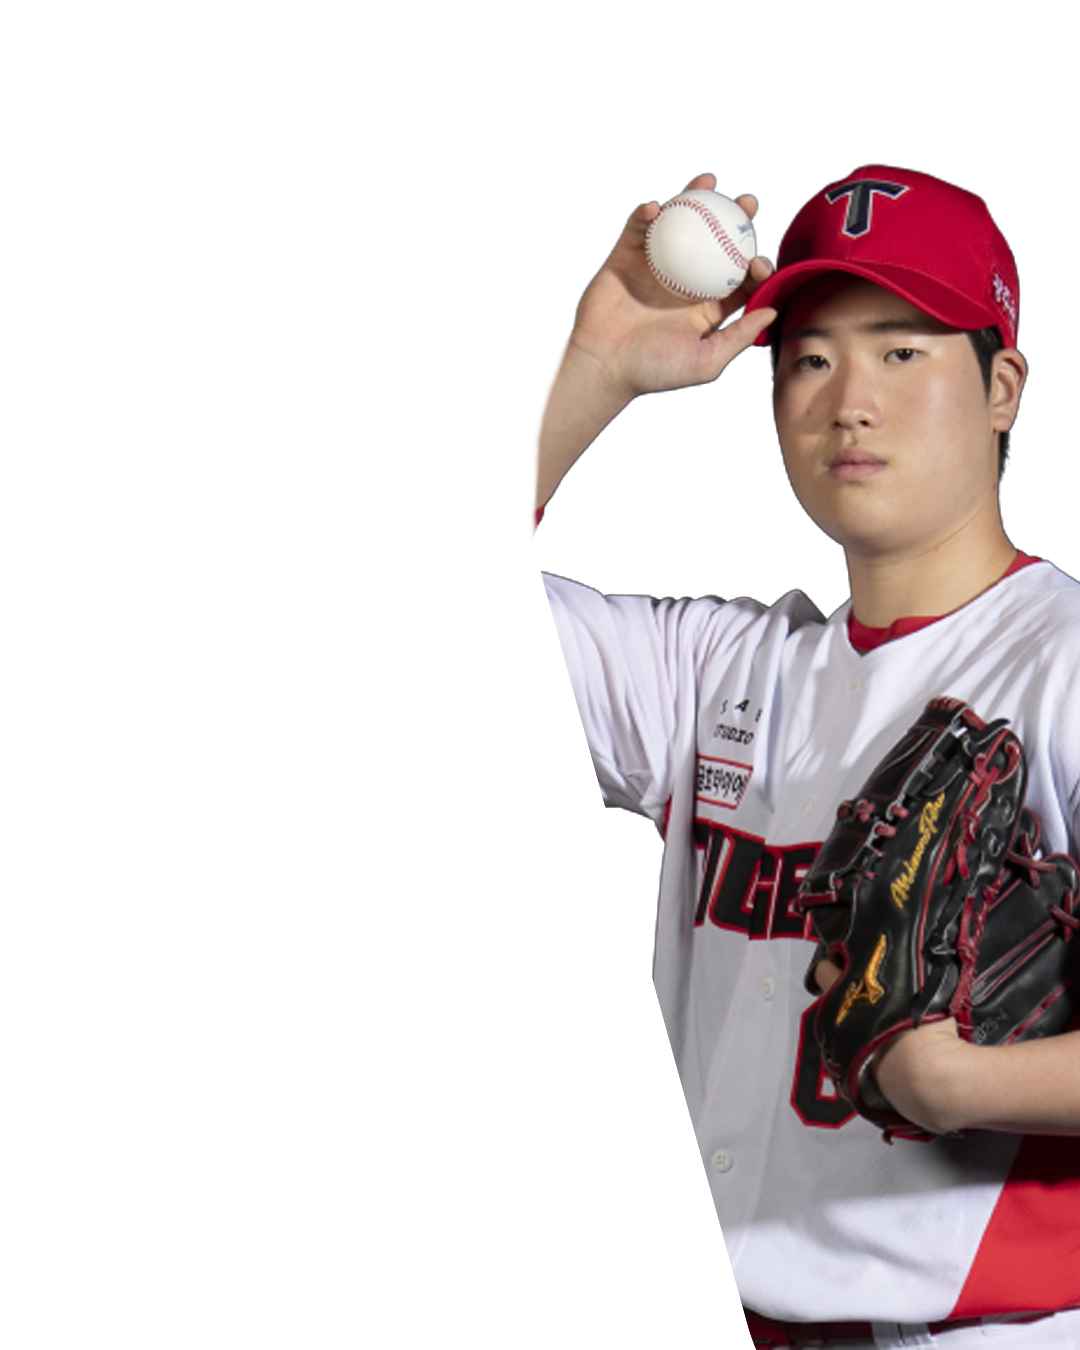
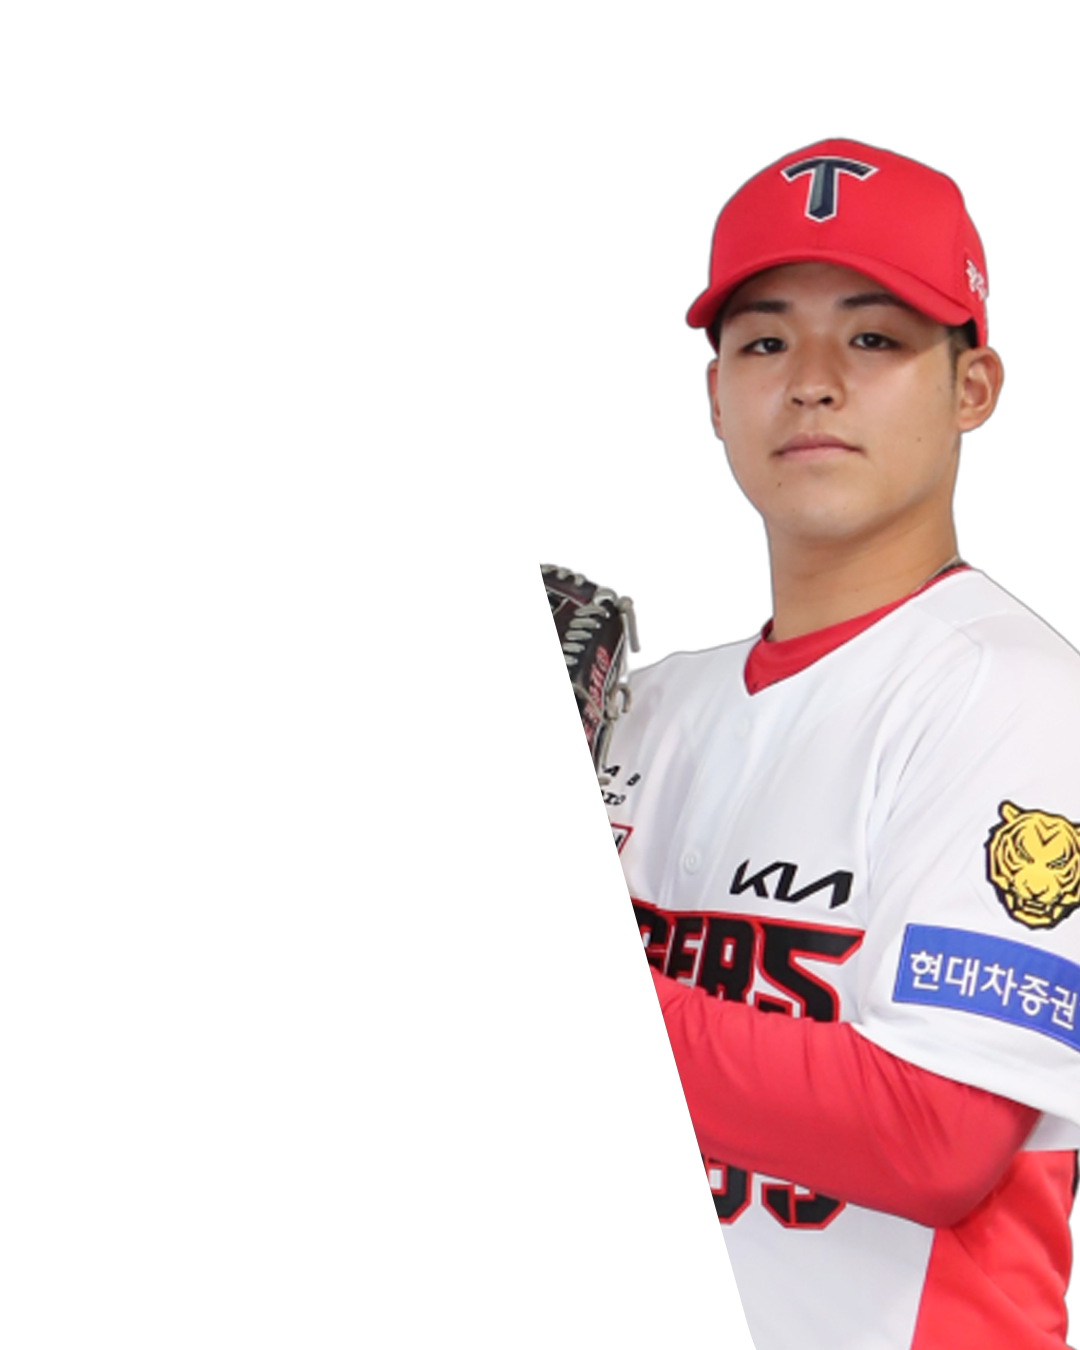
Update player 63 to Shirakawa

Changed region(s): [[0.4889, 0.0933, 1.0, 1.0]]

diff --git a/constants.js b/constants.js
@@ -27,7 +27,7 @@ export const PLAYER_NUMBER_BY_NAME = {
   '네일': 40, '황동하': 41, '김태군': 42, '김건국': 43, '이태양': 44, '정찬화': 45,
   '김정엽': 46, '나성범': 47, '이의리': 48, '김범수': 49, '박상준': 50, '전상현': 51,
   '홍건희': 52, '김기훈': 53, '양현종': 54, '한재승': 55, '오선우': 56, '고종욱': 57,
-  '이성원': 58, '김도현': 60, '김시훈': 61, '정해영': 62, '이호민': 63, '김현수(64)': 64,
+  '이성원': 58, '김도현': 60, '김시훈': 61, '정해영': 62, '시라카와': 63, '김현수(64)': 64,
   '성영탁': 65, '이도현': 66, '홍민규': 67, '김대유': 69
 };
 
@@ -77,7 +77,7 @@ export const PLAYER_INFO_LIST = [
   { name: '김도현', positionGroup: '투수' },
   { name: '김시훈', positionGroup: '투수' },
   { name: '정해영', positionGroup: '투수' },
-  { name: '이호민', positionGroup: '투수' },
+  { name: '시라카와', positionGroup: '투수' },
   { name: '김현수(64)', positionGroup: '투수', playerId: '56664' },
   { name: '성영탁', positionGroup: '투수' },
   { name: '이도현', positionGroup: '투수' },
